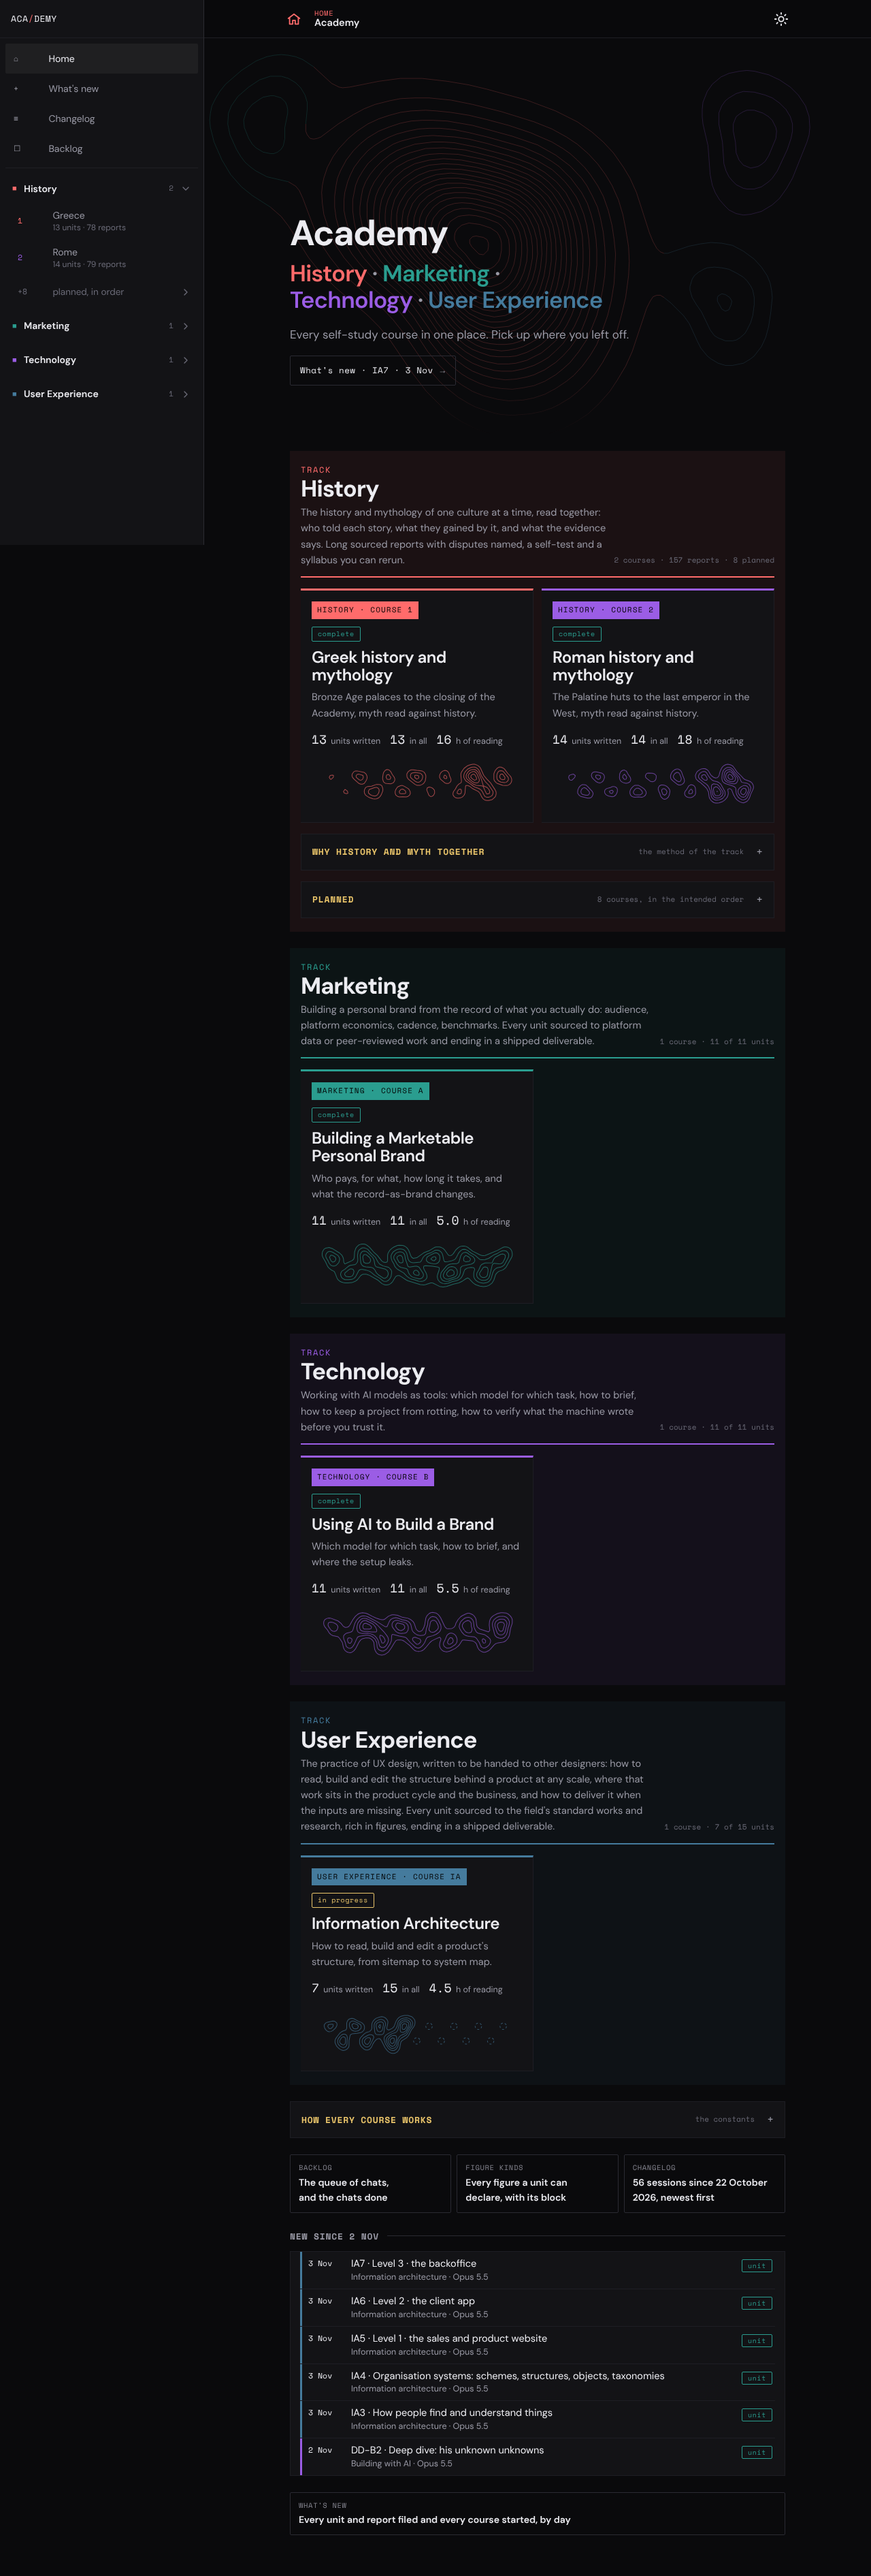
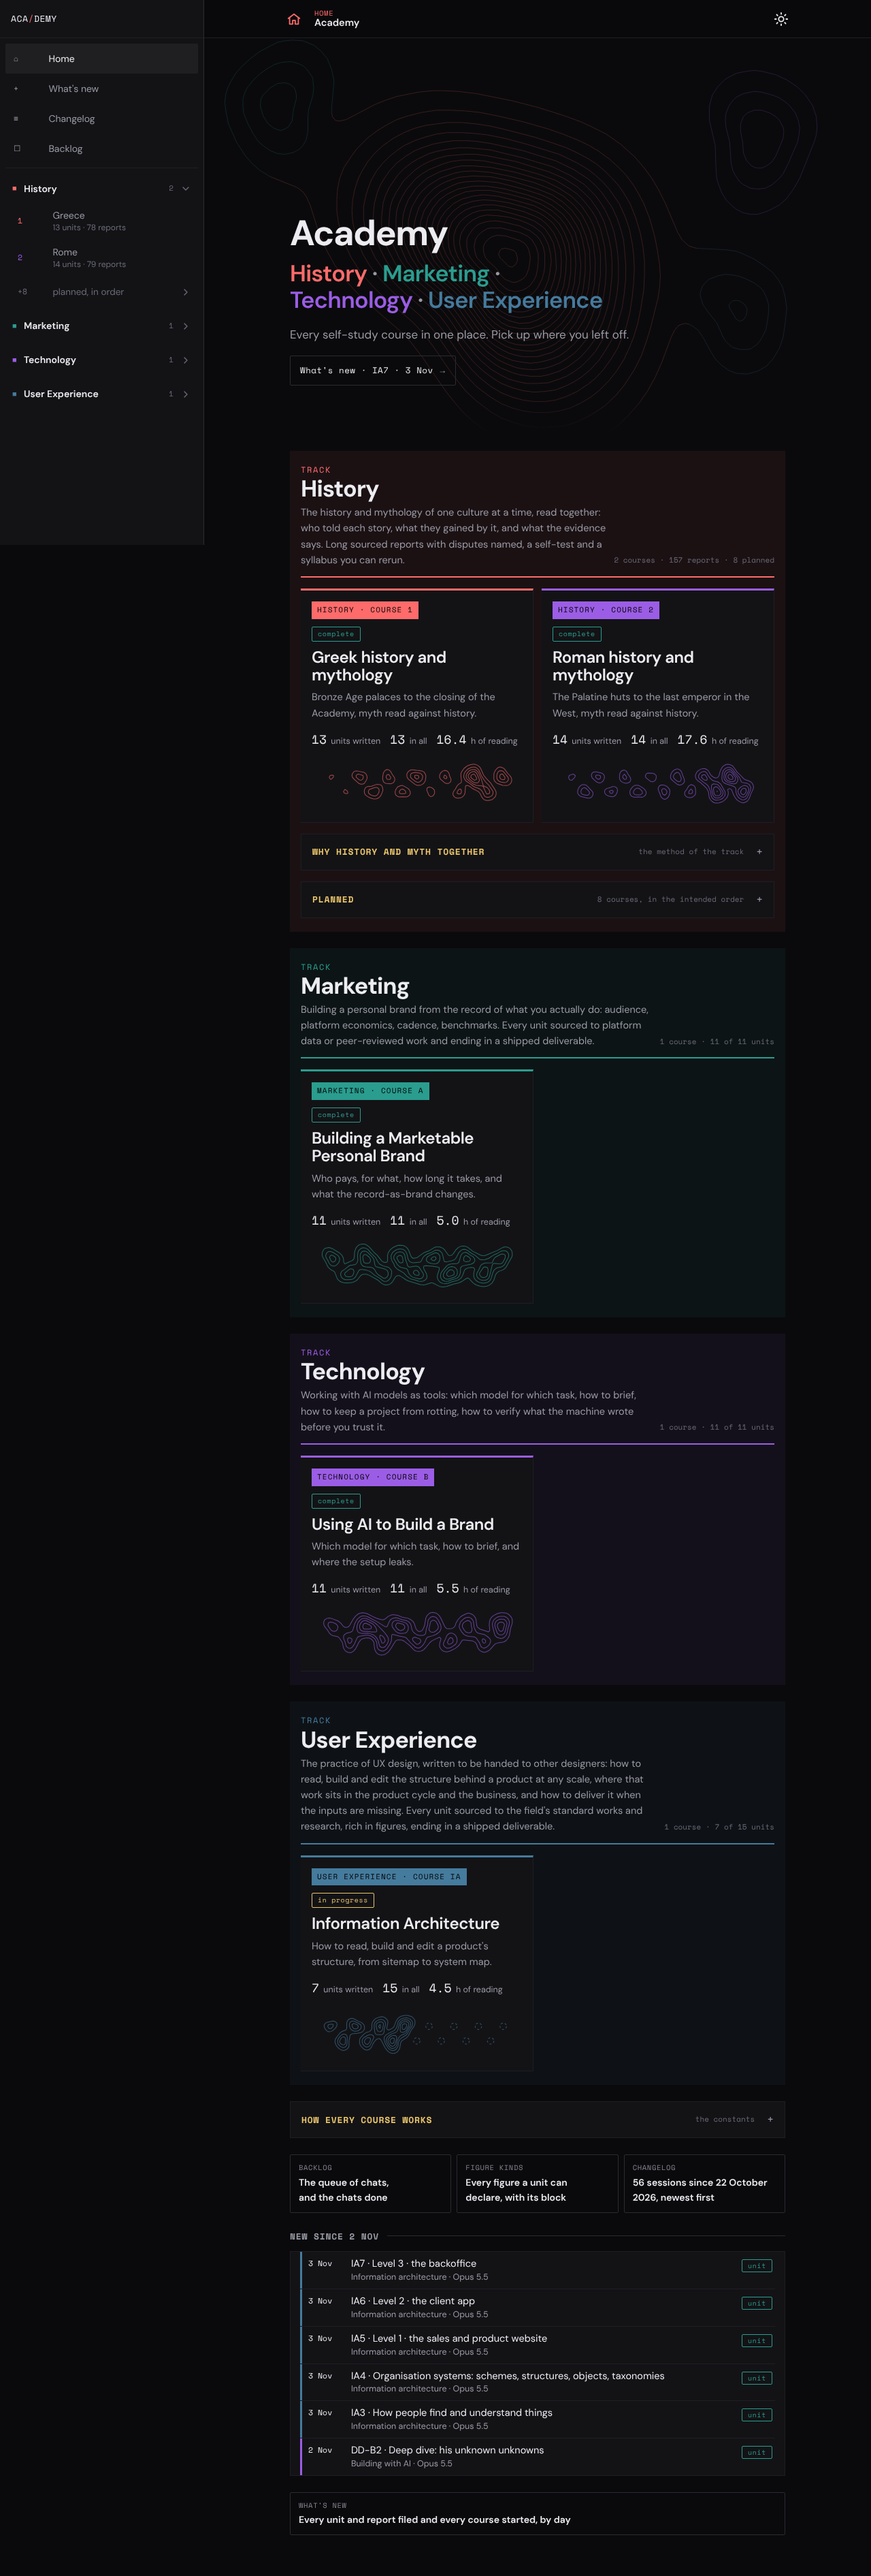
P92 step 6: checks 3 saved (hero FIX, layout PASS); after shots and verify log of the current build; the drift's middle measured too
Claude-Session: https://claude.ai/code/session_01KMmgR2fbBsytckcVRYiSZB

Changed region(s): [[0.4375, 0.0312, 0.7188, 0.156]]

diff --git a/kit/verify.py b/kit/verify.py
@@ -60,7 +60,8 @@ each planned unit marked planned), the whole tile the link and no other link in 
 sections, the constants, the site links (Backlog, Figure kinds, Changelog), New since (What's new's first six rows, its
 heading naming its oldest day) and one link to #new, last; no sideways scroll. Every text of the hero is measured
 against the pixels under it (the contour lines and the page, shot with the texts made transparent): 4.5:1, 3:1 for
-large text. With motion allowed the hero's texts are measured at both ends of the drift with each area word shown in turn. With
+large text. With motion allowed the hero's texts are measured at both ends and the middle of the drift with each area word shown
+in turn. With
 reduced motion no animation runs on the home; with motion allowed only transform and opacity animate
 (document.getAnimations(), each effect's keyframes), the four area words and the shown contour layout, none on a tile.
 At 390 px with motion allowed the fresh load's LCP and longest task are printed. On the desktop a history tile, a
@@ -435,12 +436,12 @@ HERO_TEXTS_JS = r'''() => { const out = [], copy = document.querySelector('#home
     out.push({what: (e.className || e.tagName.toLowerCase()) + ' "' + e.textContent.trim().slice(0, 18) + '"', color: cs.color, large, x: r.left, y: r.top, w: r.width, h: r.height}); });
   return out; }'''
 def hero_contrast(pg, label, fails, motion=False):
-    """P92: with motion allowed, every moment that matters: the drift at both ends of its sweep (0 and 30 s) and, at
+    """P92: with motion allowed, every moment that matters: the drift at both ends and the middle of its sweep (0, 15 and 30 s) and, at
     each, each area word in turn (its animation set to the middle of its showing), every animation paused there."""
     if not motion:
         return _hero_contrast(pg, label, fails)
     names = pg.evaluate("[...document.querySelectorAll('#home .harea-w')].map(w => w.textContent)")
-    for td in (0, 30000):
+    for td in (0, 15000, 30000):
         for k, nm in enumerate(names):
             ta = k * 3000 + 1500
             pg.evaluate(f'''() => document.getAnimations().forEach(a => {{ a.pause(); a.currentTime = a.animationName === 'topo-drift' ? {td} : {ta}; }})''')

diff --git a/design/README.md b/design/README.md
@@ -1,6 +1,6 @@
 # design/
 
-**Version 6.5, 4 November 2026** (P92: the Academy home's hero is type first over a topography drawn from the data. Section 4h: `.hhome` (the hero: `position:relative`, `isolation:isolate`, bleeding to `100cqw`, the width beside the sidebar, by negative inline margins with its copy kept in the column by as much padding, `min-height:70svh` so a phone's first area peeks under it, the copy centred in it), `.hcopy`, `.harea` (the four area words `.harea-w` stacked in one grid cell, each `color:var(--c)`, its tone, shown in turn by the `harea` keyframes, opacity and transform only, 12 s a cycle, staggered by `--k`; shown only where motion is welcome), `.harea-all` (the static line, words in their tones, `.harea-dot` in `--muted`; visible under reduced motion, otherwise for a screen reader only, clipped), both 28 px semibold (34 px from 1100 px), large text, so a tone is read at 3:1 (the dark blue gives 4.31 on the page), `.hnew` (the quiet link: `--fg` mono 12.5 px, a 1 px `--line-2` outline, no fill, 44 px, `.hnew-a` its arrow in `--muted`); the area header below 768 px the name only (`.thead .cname`, `p` and `.tmeta` hidden; section 6 shows them from 768 px). Section 4i: the topography, `.topo` (the hero's layer, from the top bar to the hero's foot, full width, faded out over its last 16%, `z-index:-1` in the hero), `.topo-l` (one layout, `.topo-tall` below 1100 px, `.topo-wide` from it, drawn 12 px larger every way so the drift never shows an edge; `topo-drift`, 8 x 6 px over 30 s, transform only, where motion is welcome), `.ct-rise` (a rise's lines, 1 px at any scale, `stroke:var(--c)` at `--topo-a`), `.ct-plan` (a planned unit, a dashed ring), `.ct-t1` to `.ct-t6` (the tones), `.topo-patch` (a tile's patch: 4:1, the tile's content width, `--topo-p`, never moving). New tokens: `--topo-a` (dark .2, light .2: the highest that keeps every hero text at its bar over the densest line, `kit/contrast.py` on the tokens and `kit/verify.py` pixel by pixel on the built page) and `--topo-p` (dark .62, light .6). Section 3: `body{container-type:inline-size}`, so `100cqw` is the width beside the sidebar less any scrollbar (it is not a containing block for the fixed bar or drawer). Gone: the bookshelf (`.shelf` and every `.shelf-*`, `.spine`, their tokens `--spine-w`, `--spine-gap`, `--shelf-lo`, `--shelf-hi`), `.htop`, `.htot` and the 1100 px full-bleed hero rule with `--bleed`). **Version 6.4, 4 November 2026** (P91, its home superseded by 6.5: the Academy home's hero is a bookshelf of every unit, `.shelf` in section 4i, drawn as HTML by `kit/viz.py`'s home kind `shelf`: `.shelf-track` (a track, its name `.shelf-tname` in `--fg` with its tone as a square), `.shelf-group` (a course: `.shelf-books` standing on `.shelf-label`'s rule in the course tone, its count `.shelf-note`), `.spine` (solid in `--c`, its code `.sc` in `--on-accent`; `.ghost` a dashed outline in `--c` with its code in `--muted`; `.vol` the planned courses' volume; `.lit` the newest, a glow in `--c`, with `.shelf-lit` beside it, `--fg` text and an arrow in its tone, the two in one `.shelf-pair` so the label never wraps away; codes bold), sized by `--spine-w`, `--spine-gap`, `--shelf-lo` and `--shelf-hi` (44 to 104 px below 1100 px, 60 to 210 px from it) and each spine's `--h`, rising on load (`shelf-rise`, staggered by `--i`) only where motion is welcome; from 1100 px the hero runs full-bleed (`--bleed`) and `.htop` sets the live totals `.htot` big beside the headline; What's new's day cards (`.newday`, `.approx` for an approximate date) share New since's rows, the course's tone a rule at each row's left edge, not the date's colour; the course card's `.meter` and `.cgo` are gone from the home and `.cgo` from the theme, its chip (`.cpart`, two parts) stays on one line with the pill dropping under it when they do not fit; a track's shelves stand on one line when tracks sit side by side (from 768 px); the home's three site links are one to a row on a phone and three across from 768 px; on a phone under 400 px New since's and What's new's pill sits under the date or code; an id inside a page stops clear of the top bar; the dark `--on-accent` is `#000`, 4.57:1 on the blue accent where `#0a0a0c` gave 4.31). **Version 6.3, 4 November 2026** (P90: the light palette is e-ink paper, a warm grey-cream page with cards barely lighter, near-black ink and no pure white anywhere, its accents at full saturation in their house hues as far as 4.5:1 allows, measured by `kit/contrast.py` and checked on the built page by `kit/verify.py`; section 4h is the new Academy home, its hero carrying the map of Academy and the Continue button; 4i adds the sitemap's dashed and linked boxes). **Version 6, 1 November 2026** (section 9, the reading layout, P68: every unit and report opens on its one-line scope and reads one section at a time under a sticky bar with "Section n of N", the section menu, a progress bar and a "Whole unit" toggle; each h2 is a full-width numbered band; Sources and "How this unit was made" are closed accordions after the text). Versions 4 to 5.4 are in the theme's header. **Version 3, 28 October 2026** (section 7, interaction: hover and pressed states on every clickable thing where a pointer can hover, transitions that respect reduced motion, and equal-height catalogue cards with the button on one line). Version 2, the same day, added section 6 (responsive: tablet from 768 px, desktop from 1100 px; the phone layout is version 1's, unchanged). Version 1 was the extraction of 27 October 2026.
+**Version 6.5, 4 November 2026** (P92: the Academy home's hero is type first over a topography drawn from the data. Section 4h: `.hhome` (the hero: `position:relative`, `isolation:isolate`, bleeding to `100cqw`, the width beside the sidebar, by negative inline margins with its copy kept in the column by as much padding, `min-height:70svh` so a phone's first area peeks under it, the copy centred in it), `.hcopy`, `.harea` (the four area words `.harea-w` stacked in one grid cell, each `color:var(--c)`, its tone, shown in turn by the `harea` keyframes, opacity and transform only, 12 s a cycle, staggered by `--k`; shown only where motion is welcome), `.harea-all` (the static line, words in their tones, `.harea-dot` in `--muted`; visible under reduced motion, otherwise for a screen reader only, clipped), both 28 px semibold (34 px from 1100 px), large text, so a tone is read at 3:1 (the dark blue gives 4.31 on the page), `.hnew` (the quiet link: `--fg` mono 12.5 px, a 1 px `--line-2` outline, no fill, 44 px, `.hnew-a` its arrow in `--muted`); the area header below 768 px the name only (`.thead .cname`, `p` and `.tmeta` hidden; section 6 shows them from 768 px). Section 4i: the topography, `.topo` (the hero's layer, from the top bar to the hero's foot, full width, faded out over its last 10%, `z-index:-1` in the hero), `.topo-l` (one layout, `.topo-tall` below 1100 px, `.topo-wide` from it, drawn 12 px larger every way so the drift never shows an edge; `topo-drift`, 8 x 6 px over 30 s, transform only, where motion is welcome), `.ct-rise` (a rise's lines, 1 px at any scale, `stroke:var(--c)` at `--topo-a`), `.ct-plan` (a planned unit, a dashed ring), `.ct-t1` to `.ct-t6` (the tones), `.topo-patch` (a tile's patch: 4:1, the tile's content width, `--topo-p`, never moving). New tokens: `--topo-a` (dark .2, light .2: the highest that keeps every hero text at its bar over the densest line, `kit/contrast.py` on the tokens and `kit/verify.py` pixel by pixel on the built page) and `--topo-p` (dark .62, light .6). Section 3: `body{container-type:inline-size}`, so `100cqw` is the width beside the sidebar less any scrollbar (it is not a containing block for the fixed bar or drawer). Gone: the bookshelf (`.shelf` and every `.shelf-*`, `.spine`, their tokens `--spine-w`, `--spine-gap`, `--shelf-lo`, `--shelf-hi`), `.htop`, `.htot` and the 1100 px full-bleed hero rule with `--bleed`). **Version 6.4, 4 November 2026** (P91, its home superseded by 6.5: the Academy home's hero is a bookshelf of every unit, `.shelf` in section 4i, drawn as HTML by `kit/viz.py`'s home kind `shelf`: `.shelf-track` (a track, its name `.shelf-tname` in `--fg` with its tone as a square), `.shelf-group` (a course: `.shelf-books` standing on `.shelf-label`'s rule in the course tone, its count `.shelf-note`), `.spine` (solid in `--c`, its code `.sc` in `--on-accent`; `.ghost` a dashed outline in `--c` with its code in `--muted`; `.vol` the planned courses' volume; `.lit` the newest, a glow in `--c`, with `.shelf-lit` beside it, `--fg` text and an arrow in its tone, the two in one `.shelf-pair` so the label never wraps away; codes bold), sized by `--spine-w`, `--spine-gap`, `--shelf-lo` and `--shelf-hi` (44 to 104 px below 1100 px, 60 to 210 px from it) and each spine's `--h`, rising on load (`shelf-rise`, staggered by `--i`) only where motion is welcome; from 1100 px the hero runs full-bleed (`--bleed`) and `.htop` sets the live totals `.htot` big beside the headline; What's new's day cards (`.newday`, `.approx` for an approximate date) share New since's rows, the course's tone a rule at each row's left edge, not the date's colour; the course card's `.meter` and `.cgo` are gone from the home and `.cgo` from the theme, its chip (`.cpart`, two parts) stays on one line with the pill dropping under it when they do not fit; a track's shelves stand on one line when tracks sit side by side (from 768 px); the home's three site links are one to a row on a phone and three across from 768 px; on a phone under 400 px New since's and What's new's pill sits under the date or code; an id inside a page stops clear of the top bar; the dark `--on-accent` is `#000`, 4.57:1 on the blue accent where `#0a0a0c` gave 4.31). **Version 6.3, 4 November 2026** (P90: the light palette is e-ink paper, a warm grey-cream page with cards barely lighter, near-black ink and no pure white anywhere, its accents at full saturation in their house hues as far as 4.5:1 allows, measured by `kit/contrast.py` and checked on the built page by `kit/verify.py`; section 4h is the new Academy home, its hero carrying the map of Academy and the Continue button; 4i adds the sitemap's dashed and linked boxes). **Version 6, 1 November 2026** (section 9, the reading layout, P68: every unit and report opens on its one-line scope and reads one section at a time under a sticky bar with "Section n of N", the section menu, a progress bar and a "Whole unit" toggle; each h2 is a full-width numbered band; Sources and "How this unit was made" are closed accordions after the text). Versions 4 to 5.4 are in the theme's header. **Version 3, 28 October 2026** (section 7, interaction: hover and pressed states on every clickable thing where a pointer can hover, transitions that respect reduced motion, and equal-height catalogue cards with the button on one line). Version 2, the same day, added section 6 (responsive: tablet from 768 px, desktop from 1100 px; the phone layout is version 1's, unchanged). Version 1 was the extraction of 27 October 2026.
 
 `theme.css` is the only place style is defined in the Learning Project. It is the Personal Mythology visual system (the history site's `shell.css` of 27 October 2026), with three fixes and the few components the hubs need that the history pages lack. Every page in the Project is built from it; no page carries its own stylesheet.
 
